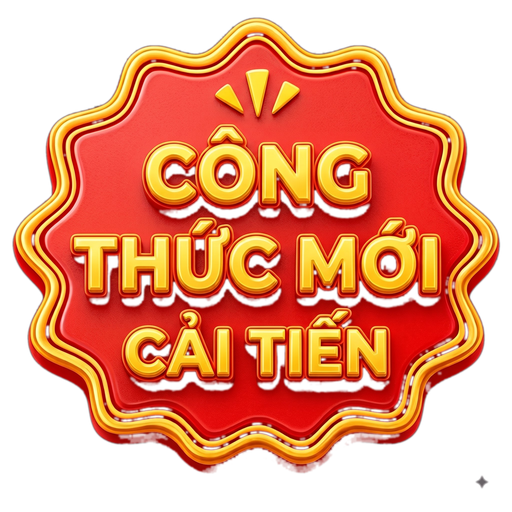
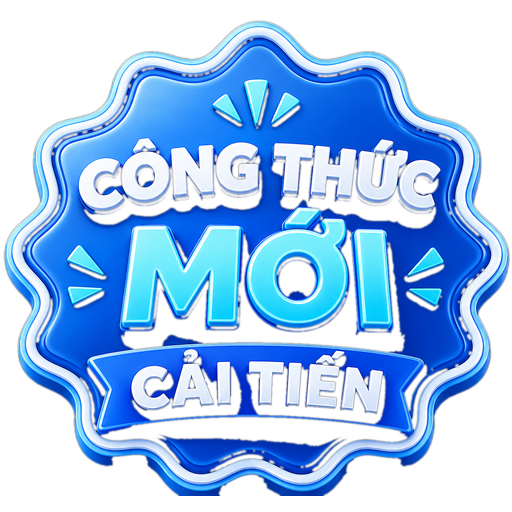
Huy hieu moi mau xanh duong-trang (CÔNG THỨC MỚI CẢI TIẾN) theo asset user; tran trai 2px/tren 1px, bong do nhe 10-15%

diff --git a/src/styles.css b/src/styles.css
@@ -2602,24 +2602,27 @@ html {
 /* ---------- Huy hiệu ảnh 3D (Sản phẩm bán chạy / Công thức mới / Lựa chọn chuyên gia) ---------- */
 .product > .badge-img {
   position: absolute;
-  top: 3.6px;
-  left: 2.6px;
+  top: 3.1px;
+  left: 2.1px;
   z-index: 5;
   width: 99px;
   height: auto;
   pointer-events: none;
   transform-origin: center;
   transform: rotate(5deg);
-  filter: drop-shadow(0 2px 4px oklch(0.3 0.06 25 / 0.22));
-  transition: transform 160ms ease;
+  filter: drop-shadow(0 2px 5px rgba(225, 40, 20, 0.14))
+          drop-shadow(0 0 12px rgba(235, 70, 35, 0.1));
+  transition: transform 160ms ease, filter 160ms ease;
 }
 .product:hover > .badge-img {
   transform: rotate(5deg) scale(1.06);
+  filter: drop-shadow(0 3px 8px rgba(225, 40, 20, 0.2))
+          drop-shadow(0 0 16px rgba(235, 70, 35, 0.14));
 }
 @media (max-width: 620px) {
   .product > .badge-img {
-    top: 3px;
-    left: 2px;
+    top: 2.5px;
+    left: 1.5px;
     width: 84px;
   }
 }
